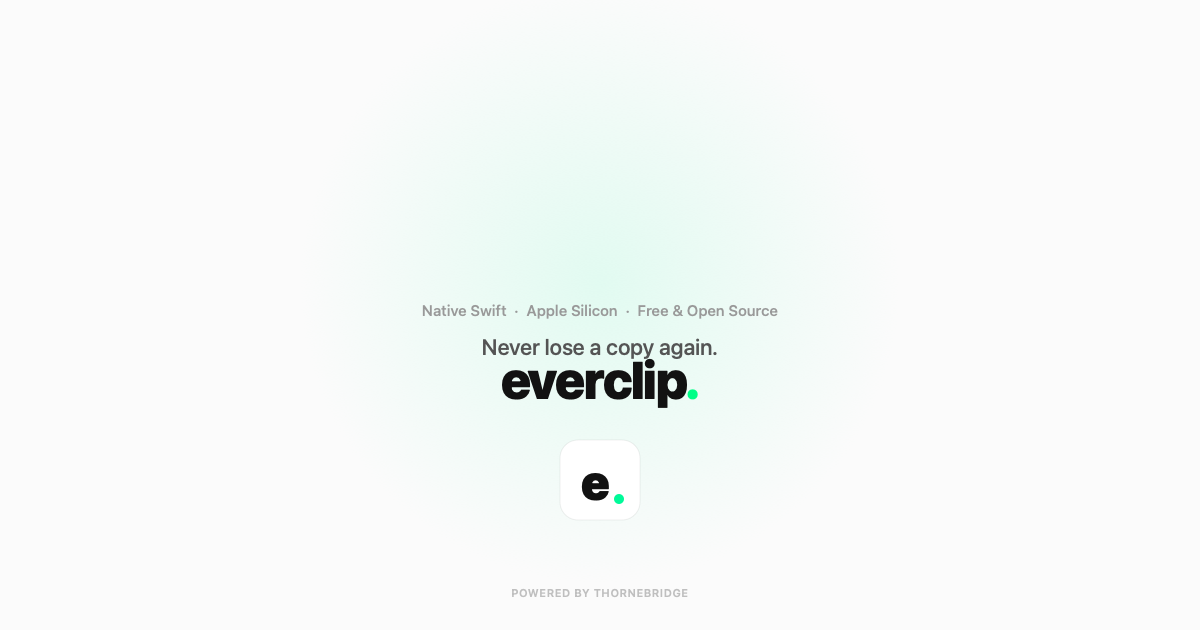
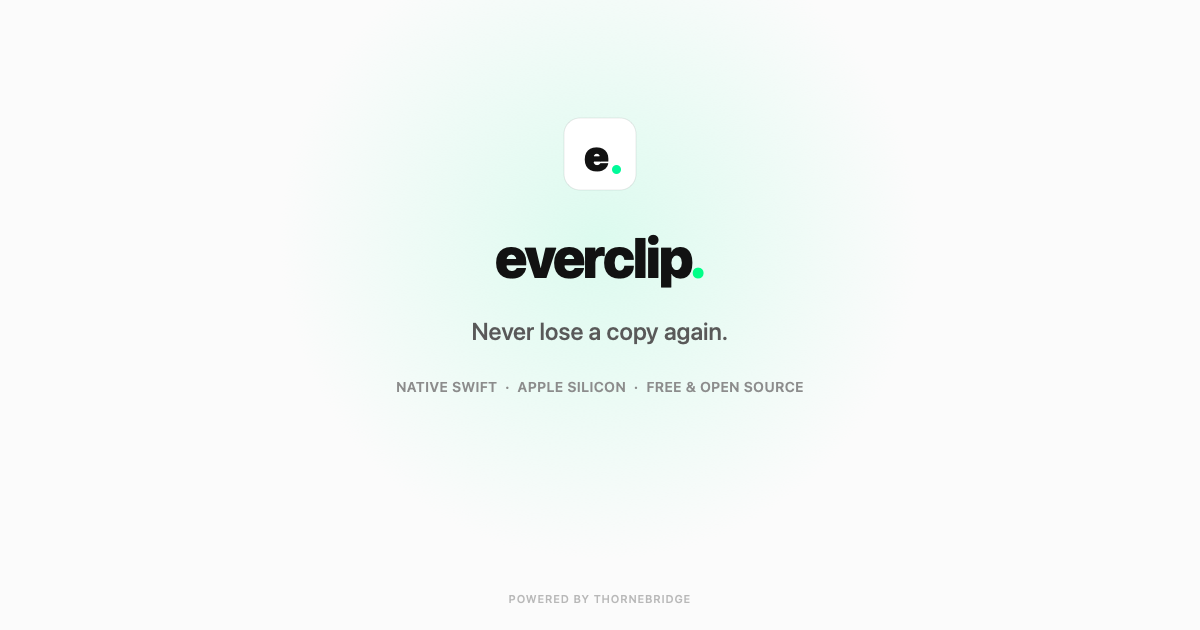
fix: OG image layout — flipped coordinate system corrected

diff --git a/scripts/generate-og.swift b/scripts/generate-og.swift
@@ -1,8 +1,6 @@
 #!/usr/bin/env swift
 import AppKit
 
-// Generates a 1200x630 PNG OG image with EverClip branding.
-
 let w = 1200, h = 630
 let rep = NSBitmapImageRep(
     bitmapDataPlanes: nil, pixelsWide: w, pixelsHigh: h,
@@ -15,81 +13,121 @@ let ctx = NSGraphicsContext(bitmapImageRep: rep)!
 NSGraphicsContext.current = ctx
 let gc = ctx.cgContext
 
-let s = CGFloat(1) // scale factor
+// Flip coordinate system so Y=0 is at the top (like screen coords)
+gc.translateBy(x: 0, y: CGFloat(h))
+gc.scaleBy(x: 1, y: -1)
 
 // Background
 gc.setFillColor(CGColor(red: 0.98, green: 0.98, blue: 0.98, alpha: 1))
 gc.fill(CGRect(x: 0, y: 0, width: w, height: h))
 
-// Subtle green radial glow
-let glowCenter = CGPoint(x: CGFloat(w) / 2, y: CGFloat(h) * 0.55)
+// Subtle green radial glow centered in upper third
+let glowCenter = CGPoint(x: CGFloat(w) / 2, y: 240)
 let gradient = CGGradient(
     colorsSpace: CGColorSpaceCreateDeviceRGB(),
     colors: [
-        CGColor(red: 0, green: 1, blue: 0.529, alpha: 0.1),
+        CGColor(red: 0, green: 1, blue: 0.529, alpha: 0.12),
         CGColor(red: 0, green: 1, blue: 0.529, alpha: 0),
     ] as CFArray,
     locations: [0, 1]
 )!
-gc.drawRadialGradient(gradient, startCenter: glowCenter, startRadius: 0, endCenter: glowCenter, endRadius: 300, options: [])
+gc.drawRadialGradient(gradient, startCenter: glowCenter, startRadius: 0,
+                       endCenter: glowCenter, endRadius: 320, options: [])
 
-// Icon (white rounded rect with "e." at top)
-let iconSize: CGFloat = 80
+// --- Text rendering needs un-flipped context for NSAttributedString ---
+// Save flipped state, temporarily un-flip for text
+gc.saveGState()
+gc.translateBy(x: 0, y: CGFloat(h))
+gc.scaleBy(x: 1, y: -1)
+// Now we're back to bottom-left origin for NSAttributedString.draw()
+
+// Icon background (white rounded rect)
+let iconSize: CGFloat = 72
 let iconX = (CGFloat(w) - iconSize) / 2
-let iconY = CGFloat(h) - 520 // from bottom (flipped coords)
+let iconY = CGFloat(h) - 190  // 190px from top in bottom-left coords
 let iconRect = CGRect(x: iconX, y: iconY, width: iconSize, height: iconSize)
-let iconPath = CGPath(roundedRect: iconRect, cornerWidth: 18, cornerHeight: 18, transform: nil)
+let iconPath = CGPath(roundedRect: iconRect, cornerWidth: 16, cornerHeight: 16, transform: nil)
 gc.addPath(iconPath)
 gc.setFillColor(CGColor.white)
 gc.fillPath()
 gc.addPath(iconPath)
-gc.setStrokeColor(CGColor(red: 0, green: 0, blue: 0, alpha: 0.06))
+gc.setStrokeColor(CGColor(red: 0, green: 0, blue: 0, alpha: 0.08))
 gc.setLineWidth(1)
 gc.strokePath()
 
-// "e" in the icon
-let iconFont = NSFont.systemFont(ofSize: 48, weight: .black)
-let eAttrs: [NSAttributedString.Key: Any] = [.font: iconFont, .foregroundColor: NSColor(red: 0.07, green: 0.07, blue: 0.07, alpha: 1)]
+// "e" in icon
+let iconFont = NSFont.systemFont(ofSize: 42, weight: .black)
+let eAttrs: [NSAttributedString.Key: Any] = [
+    .font: iconFont,
+    .foregroundColor: NSColor(red: 0.07, green: 0.07, blue: 0.07, alpha: 1)
+]
 let eStr = NSAttributedString(string: "e", attributes: eAttrs)
 let eSize = eStr.size()
-eStr.draw(at: NSPoint(x: iconX + (iconSize - eSize.width) / 2 - 4, y: iconY + (iconSize - eSize.height) / 2 - 2))
+eStr.draw(at: NSPoint(x: iconX + (iconSize - eSize.width) / 2 - 3, y: iconY + (iconSize - eSize.height) / 2 - 1))
 
-// Green dot in icon
+// Green dot
 gc.setFillColor(CGColor(red: 0, green: 1, blue: 0.529, alpha: 1))
-gc.fillEllipse(in: CGRect(x: iconX + iconSize / 2 + 14, y: iconY + (iconSize - eSize.height) / 2 + 4, width: 10, height: 10))
+gc.fillEllipse(in: CGRect(
+    x: iconX + iconSize / 2 + 12,
+    y: iconY + (iconSize - eSize.height) / 2 + 5,
+    width: 9, height: 9
+))
 
-// "everclip." wordmark
-let wordFont = NSFont.systemFont(ofSize: 52, weight: .heavy)
-let wordAttrs: [NSAttributedString.Key: Any] = [.font: wordFont, .foregroundColor: NSColor(red: 0.07, green: 0.07, blue: 0.07, alpha: 1), .kern: -1.5]
+// "everclip." wordmark — centered below icon
+let wordFont = NSFont.systemFont(ofSize: 56, weight: .heavy)
+let wordAttrs: [NSAttributedString.Key: Any] = [
+    .font: wordFont,
+    .foregroundColor: NSColor(red: 0.07, green: 0.07, blue: 0.07, alpha: 1),
+    .kern: -2.0 as NSNumber
+]
 let word = NSMutableAttributedString(string: "everclip", attributes: wordAttrs)
-let dotAttrs: [NSAttributedString.Key: Any] = [.font: wordFont, .foregroundColor: NSColor(red: 0, green: 1, blue: 0.529, alpha: 1), .kern: -1.5]
+let dotAttrs: [NSAttributedString.Key: Any] = [
+    .font: wordFont,
+    .foregroundColor: NSColor(red: 0, green: 1, blue: 0.529, alpha: 1),
+    .kern: -2.0 as NSNumber
+]
 word.append(NSAttributedString(string: ".", attributes: dotAttrs))
 let wordSize = word.size()
-word.draw(at: NSPoint(x: (CGFloat(w) - wordSize.width) / 2, y: CGFloat(h) - 410))
+let wordY = CGFloat(h) - 290  // below icon
+word.draw(at: NSPoint(x: (CGFloat(w) - wordSize.width) / 2, y: wordY))
 
 // Tagline
-let tagFont = NSFont.systemFont(ofSize: 22, weight: .medium)
-let tagAttrs: [NSAttributedString.Key: Any] = [.font: tagFont, .foregroundColor: NSColor(red: 0.33, green: 0.33, blue: 0.33, alpha: 1)]
+let tagFont = NSFont.systemFont(ofSize: 24, weight: .medium)
+let tagAttrs: [NSAttributedString.Key: Any] = [
+    .font: tagFont,
+    .foregroundColor: NSColor(red: 0.35, green: 0.35, blue: 0.35, alpha: 1)
+]
 let tag = NSAttributedString(string: "Never lose a copy again.", attributes: tagAttrs)
 let tagSize = tag.size()
-tag.draw(at: NSPoint(x: (CGFloat(w) - tagSize.width) / 2, y: CGFloat(h) - 360))
+let tagY = CGFloat(h) - 345
+tag.draw(at: NSPoint(x: (CGFloat(w) - tagSize.width) / 2, y: tagY))
 
-// Subtitle
-let subFont = NSFont.systemFont(ofSize: 15, weight: .medium)
-let subAttrs: [NSAttributedString.Key: Any] = [.font: subFont, .foregroundColor: NSColor(red: 0.6, green: 0.6, blue: 0.6, alpha: 1)]
-let sub = NSAttributedString(string: "Native Swift  \u{00B7}  Apple Silicon  \u{00B7}  Free & Open Source", attributes: subAttrs)
+// Subtitle chips
+let subFont = NSFont.systemFont(ofSize: 14, weight: .semibold)
+let subAttrs: [NSAttributedString.Key: Any] = [
+    .font: subFont,
+    .foregroundColor: NSColor(red: 0.55, green: 0.55, blue: 0.55, alpha: 1),
+    .kern: 0.3 as NSNumber
+]
+let sub = NSAttributedString(string: "NATIVE SWIFT  \u{00B7}  APPLE SILICON  \u{00B7}  FREE & OPEN SOURCE", attributes: subAttrs)
 let subSize = sub.size()
-sub.draw(at: NSPoint(x: (CGFloat(w) - subSize.width) / 2, y: CGFloat(h) - 320))
+let subY = CGFloat(h) - 395
+sub.draw(at: NSPoint(x: (CGFloat(w) - subSize.width) / 2, y: subY))
 
-// "Powered by Thornebridge" footer
-let footFont = NSFont.systemFont(ofSize: 11, weight: .semibold)
-let footAttrs: [NSAttributedString.Key: Any] = [.font: footFont, .foregroundColor: NSColor(red: 0.75, green: 0.75, blue: 0.75, alpha: 1), .kern: 0.5]
+// Footer
+let footFont = NSFont.systemFont(ofSize: 11, weight: .medium)
+let footAttrs: [NSAttributedString.Key: Any] = [
+    .font: footFont,
+    .foregroundColor: NSColor(red: 0.72, green: 0.72, blue: 0.72, alpha: 1),
+    .kern: 0.8 as NSNumber
+]
 let foot = NSAttributedString(string: "POWERED BY THORNEBRIDGE", attributes: footAttrs)
 let footSize = foot.size()
-foot.draw(at: NSPoint(x: (CGFloat(w) - footSize.width) / 2, y: 30))
+foot.draw(at: NSPoint(x: (CGFloat(w) - footSize.width) / 2, y: 24))
 
+gc.restoreGState()
 NSGraphicsContext.restoreGraphicsState()
 
-let data = rep.representation(using: .png, properties: [.compressionFactor: 0.9])!
+let data = rep.representation(using: .png, properties: [:])!
 try! data.write(to: URL(fileURLWithPath: "docs/assets/og.png"))
-print("Generated docs/assets/og.png (1200x630)")
+print("Generated docs/assets/og.png (\(w)x\(h))")
